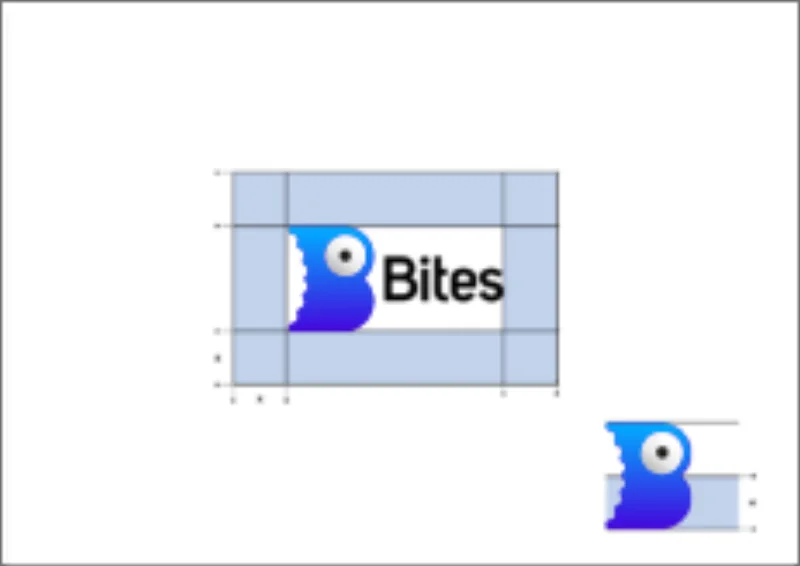
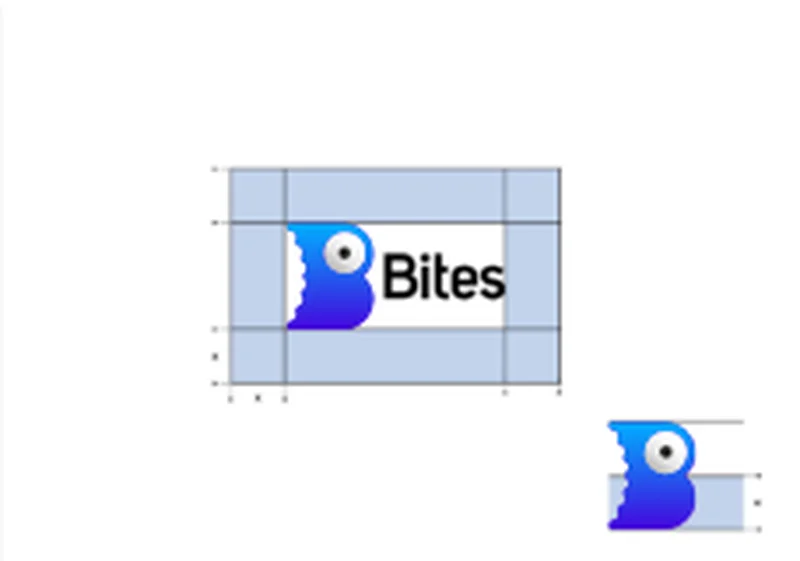
Bites: crop baked 1px gray frame off brand images
The brand study source images had a 1px gray (112,112,112) border baked into
their edges, which showed as a weird stroke inside the white cards. Re-convert
them with the frame cropped; cache-bust the brand image URLs.

Changed region(s): [[0.0, 0.0, 1.0, 1.0], [0.25, 0.2727, 0.7188, 0.7273]]

diff --git a/work/bites.html b/work/bites.html
@@ -73,14 +73,14 @@
         <p class="cs-section__desc">A playful bird mark, a confident blue, and a tagline that says it all - "deliver big ideas in small Bites". Built as a complete system with construction grids, type and colour specs, and a component library.</p>
       </div>
       <div class="cs-grid-brand reveal">
-        <div class="cs-board cs-board--brand"><img src="../images/work/bites/brand-logo.webp" alt="Bites logo" loading="lazy"></div>
-        <div class="cs-board cs-board--brand"><img src="../images/work/bites/brand-2.webp" alt="Bites logo on construction grid" loading="lazy"></div>
-        <div class="cs-board cs-board--brand"><img src="../images/work/bites/brand-3.webp" alt="Bites logo construction" loading="lazy"></div>
-        <div class="cs-board cs-board--brand"><img src="../images/work/bites/brand-4.webp" alt="Bites logo lockups" loading="lazy"></div>
-        <div class="cs-board cs-board--brand"><img src="../images/work/bites/brand-5.webp" alt="Bites type and colour specs" loading="lazy"></div>
-        <div class="cs-board cs-board--brand"><img src="../images/work/bites/brand-6.webp" alt="Deliver big ideas in small Bites" loading="lazy"></div>
-        <div class="cs-board cs-board--brand"><img src="../images/work/bites/brand-7.webp" alt="Bites wireframes" loading="lazy"></div>
-        <div class="cs-board cs-board--brand"><img src="../images/work/bites/brand-8.webp" alt="Bites UI components" loading="lazy"></div>
+        <div class="cs-board cs-board--brand"><img src="../images/work/bites/brand-logo.webp?v=2" alt="Bites logo" loading="lazy"></div>
+        <div class="cs-board cs-board--brand"><img src="../images/work/bites/brand-2.webp?v=2" alt="Bites logo on construction grid" loading="lazy"></div>
+        <div class="cs-board cs-board--brand"><img src="../images/work/bites/brand-3.webp?v=2" alt="Bites logo construction" loading="lazy"></div>
+        <div class="cs-board cs-board--brand"><img src="../images/work/bites/brand-4.webp?v=2" alt="Bites logo lockups" loading="lazy"></div>
+        <div class="cs-board cs-board--brand"><img src="../images/work/bites/brand-5.webp?v=2" alt="Bites type and colour specs" loading="lazy"></div>
+        <div class="cs-board cs-board--brand"><img src="../images/work/bites/brand-6.webp?v=2" alt="Deliver big ideas in small Bites" loading="lazy"></div>
+        <div class="cs-board cs-board--brand"><img src="../images/work/bites/brand-7.webp?v=2" alt="Bites wireframes" loading="lazy"></div>
+        <div class="cs-board cs-board--brand"><img src="../images/work/bites/brand-8.webp?v=2" alt="Bites UI components" loading="lazy"></div>
       </div>
     </div>
   </section>
